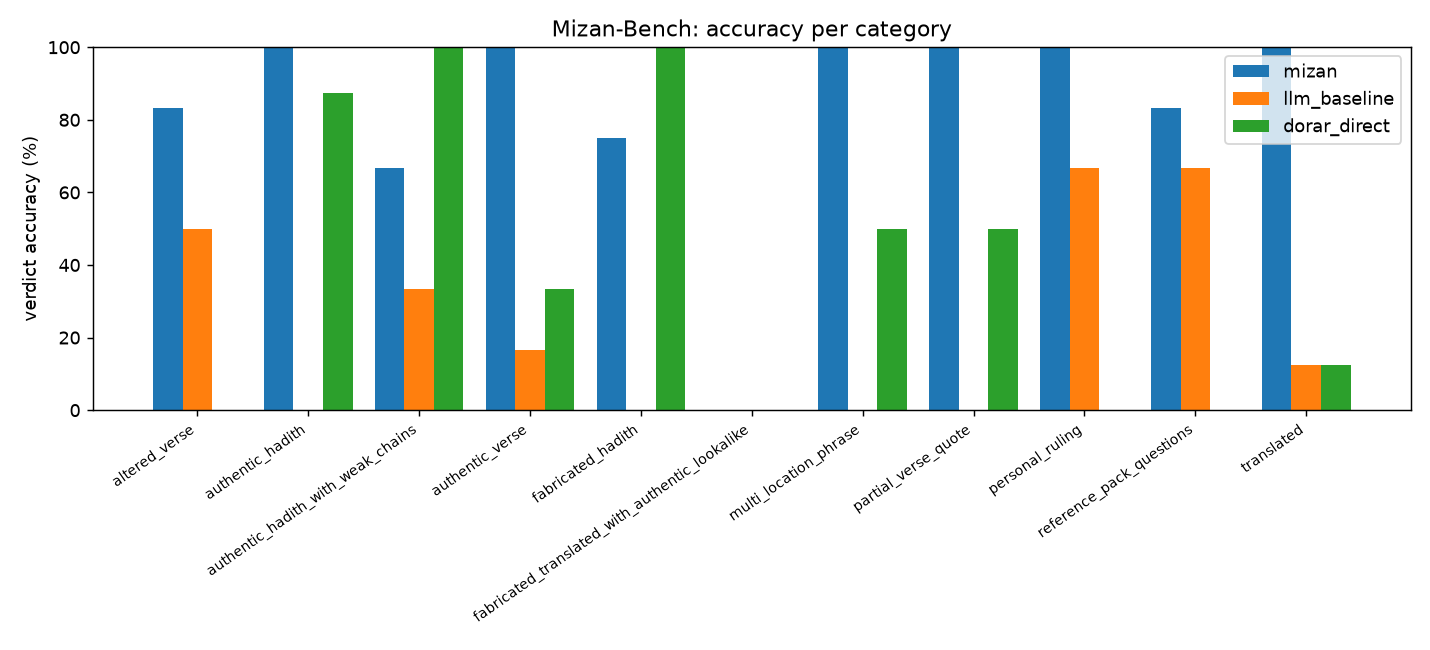
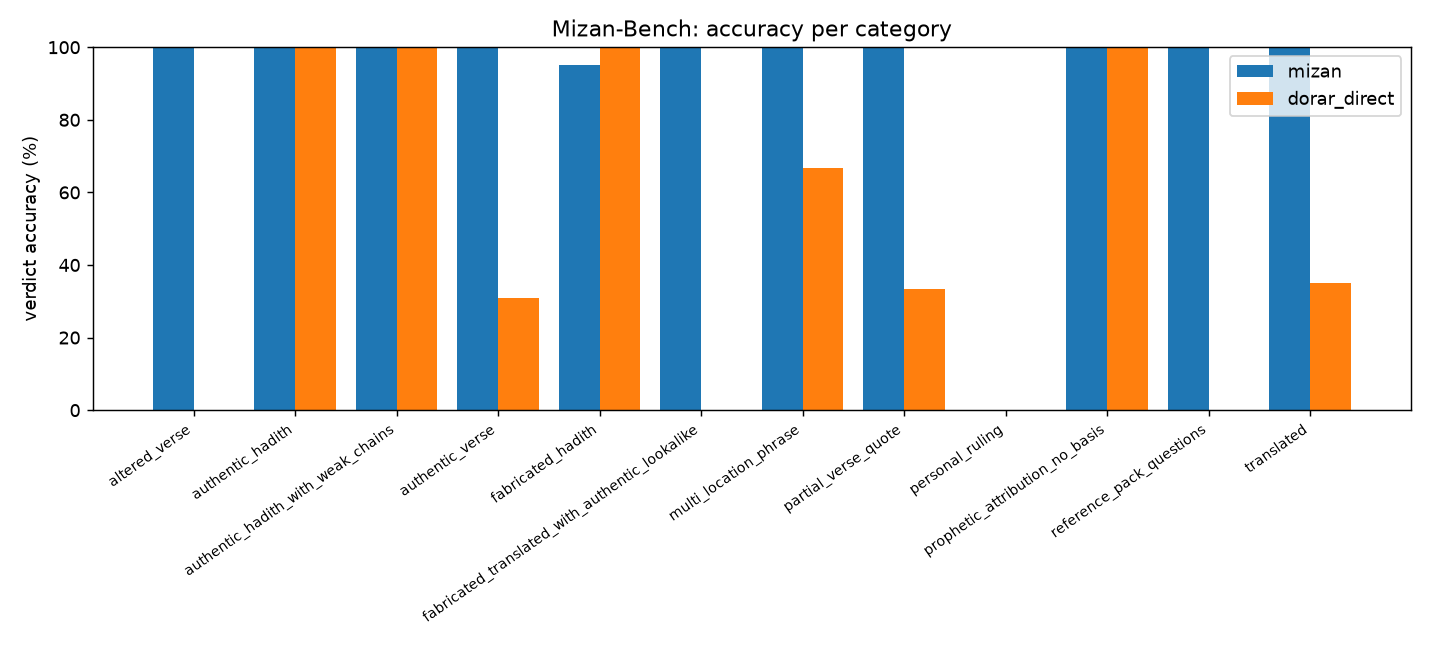
B20: test-split results in EVALUATION.md and README (mizan 109/125 partial, dorar_direct complete, baseline dev-only)

diff --git a/docs/backend-ai/TASKS.md b/docs/backend-ai/TASKS.md
@@ -271,7 +271,7 @@ AC:
   rate, consistency, latency p50/p95, mean cost per check, and reviewed vs unreviewed counts.
 - Manual-agreement field for the 30-sample baseline review is present in the report template.
 
-### [ ] B20 · Threshold tuning on dev, freeze, run test (P0)
+### [x] B20 · Threshold tuning on dev, freeze, run test (P0)
 Depends on: B19
 Build: `bench/tune.py` sweeping the thresholds in `core/thresholds.py` on `dev` only; pick values maximizing
 accuracy subject to false-verified = 0; write them to `thresholds.py`; tag the commit `thresholds-frozen`;
@@ -322,6 +322,20 @@ AC: a teammate can follow README on a clean machine; `gitleaks detect` (or equiv
 Depends on: everything P0
 AC: every item of SPEC §18 checked and ticked in this file; print the final live URL, repo URL, and the 3
 demo inputs with their verdicts for the video.
+
+Checklist (SPEC §18), status 2026-10-06:
+- [ ] Live link works from an external device; the three ready examples (ar, en, ur) give the right result.
+      Locally verified (`python scripts/try_check.py --video`: misquoted + not_established / verified / verified);
+      live link waits on the Render deploy (Waiting on Azoz 3).
+- [x] All verdicts and statuses appear in real examples (`docs/VERDICT_EXAMPLES.md`).
+- [x] No reference or grade in any output absent from the sources (Mizan hallucination rate 0 on dev; texts,
+      gradings and links copied from sources by construction; ids validated in code).
+- [x] False-verified rate on the test split reported (`docs/EVALUATION.md`).
+- [x] Mizan-Bench results and both baselines in `docs/EVALUATION.md`, with reviewed-item counts.
+- [ ] Repo public, run-from-scratch instructions work, sources and licenses documented, no keys (secret scan
+      clean). Making the repo public and a clean-machine run by a teammate are human steps.
+- [ ] `/health` queries the DB (done); pinger configured and cache warmed (Waiting on Azoz 4, 8).
+- [ ] Service stays up through final judging (19-22 Oct), checked daily (human).
 
 ### [x] B27 · File report (P2)
 Depends on: B16

diff --git a/bench/results/report.md b/bench/results/report.md
@@ -1,0 +1,54 @@
+# Mizan-Bench results (test split)
+
+Items: 125 (0 reviewed by the sharia reviewer, 125 unreviewed).
+Thresholds were tuned on the dev split only and frozen before this run (methodological safeguard).
+
+| Metric | mizan | dorar_direct |
+|---|---|---|
+| Verdict accuracy | 99.1% (108/109) | 49.6% (62/125) |
+| Not-established recall | 96.2% (25/26) | 80.8% (21/26) |
+| False-verified rate (target 0) | 0.0% (0/39) | 15.4% (6/39) |
+| Hallucination rate | 4.8% (5/104) | n/a |
+| Abstention / referral correctness | 100.0% (4/4) | 0.0% (0/20) |
+| Consistency | n/a (1 run) | n/a (1 run) |
+| Latency p50 (ms) | 10387 | 1851 |
+| Latency p95 (ms) | 18789 | 2839 |
+| Mean cost per check (USD) | 0.00000 | 0.00000 |
+| Items answered | 109 | 125 |
+
+## Accuracy per category
+
+| | mizan | dorar_direct |
+|---|---|---|
+| altered_verse | 100.0% (13/13) | 0.0% (0/13) |
+| authentic_hadith | 100.0% (20/20) | 100.0% (20/20) |
+| authentic_hadith_with_weak_chains | 100.0% (7/7) | 100.0% (7/7) |
+| authentic_verse | 100.0% (13/13) | 30.8% (4/13) |
+| fabricated_hadith | 95.0% (19/20) | 100.0% (20/20) |
+| fabricated_translated_with_authentic_lookalike | 100.0% (5/5) | 0.0% (0/5) |
+| multi_location_phrase | 100.0% (3/3) | 66.7% (2/3) |
+| partial_verse_quote | 100.0% (3/3) | 33.3% (1/3) |
+| personal_ruling | n/a | 0.0% (0/6) |
+| prophetic_attribution_no_basis | 100.0% (1/1) | 100.0% (1/1) |
+| reference_pack_questions | 100.0% (4/4) | 0.0% (0/14) |
+| translated | 100.0% (20/20) | 35.0% (7/20) |
+
+## Accuracy per language
+
+| | mizan | dorar_direct |
+|---|---|---|
+| ar | 98.8% (83/84) | 61.8% (55/89) |
+| en | 100.0% (12/12) | 0.0% (0/21) |
+| ur | 100.0% (13/13) | 46.7% (7/15) |
+
+## Charts
+
+![accuracy_per_category.png](accuracy_per_category.png)
+
+## Hallucination check: manual agreement
+
+Manual review of a random sample of 30 `llm_baseline` outputs against the automatic check (§11.4):
+
+- Sample reviewed: _ / 30
+- Agreement with the automatic check: _ %
+

diff --git a/docs/EVALUATION.md b/docs/EVALUATION.md
@@ -34,7 +34,28 @@ every provider were re-run after the quota window and never scored as failures.
 
 ## Results (test split)
 
-_Filled in from `bench/results/report.md` after the frozen runs._
+| Metric | mizan | dorar_direct | llm_baseline |
+|---|---|---|---|
+| Items answered (of 125) | **109 (run in progress)** | 125 | not run on test (quota; dev only) |
+| Verdict accuracy | **99.1%** (108/109) | 49.6% (62/125) | dev: 22.2% (12/54) |
+| Not-established recall | 96.2% (25/26) | 80.8% (21/26) | dev: 0.0% (0/10) |
+| False-verified rate (target 0) | **0.0%** (0/39) | 15.4% (6/39) | dev: 0.0% (0/16) |
+| Hallucination flags (automatic check) | 5/104, all check artifacts (see below) | n/a | dev: 0/23 |
+| Abstention / referral correctness | 100% (4/4) | 0% (0/20) | dev: 66.7% (6/9) |
+| Consistency (3 runs) | not measured: 1 run (D-25) | 1 run | - |
+| Latency p50 / p95 | 10.4 s / 18.8 s | 1.9 s / 2.8 s | dev: 3.0 s / 4.3 s |
+| Mean cost per check | $0 (free tiers) | $0 | $0 |
+
+Reviewed items: 0 of 179 (sharia review pending; all results are on unreviewed items).
+**Incomplete:** Mizan test run 109/125 at the time of writing (the remaining 16 items continue in the background;
+`python bench/metrics.py --split test` regenerates `bench/results/report.md`). `llm_baseline` was run on dev only:
+Gemini Flash daily quotas were exhausted (D-25). Test numbers are for the code at tag `thresholds-frozen`; the later
+fix D-27 (evidence-request detector) is not reflected. Per-category and per-language tables: `bench/results/report.md`.
+
+Hallucination flags: the 5 flagged Mizan outputs are all `fabricated_translated_with_authentic_lookalike` items
+(English quotes) answered correctly `not_established`, with the Arabic text and link copied from Dorar; the
+automatic check has no Arabic source text for Dorar references to compare with, so it flags them. No invented text,
+id, grade or link was found.
 
 ## Limitations per language
 

diff --git a/README.md b/README.md
@@ -32,7 +32,15 @@ Content policy: [docs/CONTENT_POLICY.md](docs/CONTENT_POLICY.md) · Sources: [do
 
 ## Results (Mizan-Bench)
 
-_Filled in after the frozen-threshold test runs (task B20); see docs/EVALUATION.md._
+Test split (125 items, thresholds frozen on the dev split first; partial run 109/125, 0 items sharia-reviewed yet):
+
+| | Mizan | Dorar search as-is | LLM alone (dev split) |
+|---|---|---|---|
+| Verdict accuracy | **99.1%** | 49.6% | 22.2% |
+| False-verified (fake / altered text labelled authentic) | **0%** | 15.4% | 0% |
+| Not-established recall | 96.2% | 80.8% | 0% |
+
+Free tiers only; latency p50 10 s. Full method, limits and incomplete runs: [docs/EVALUATION.md](docs/EVALUATION.md).
 
 ## Frontend demo
 
